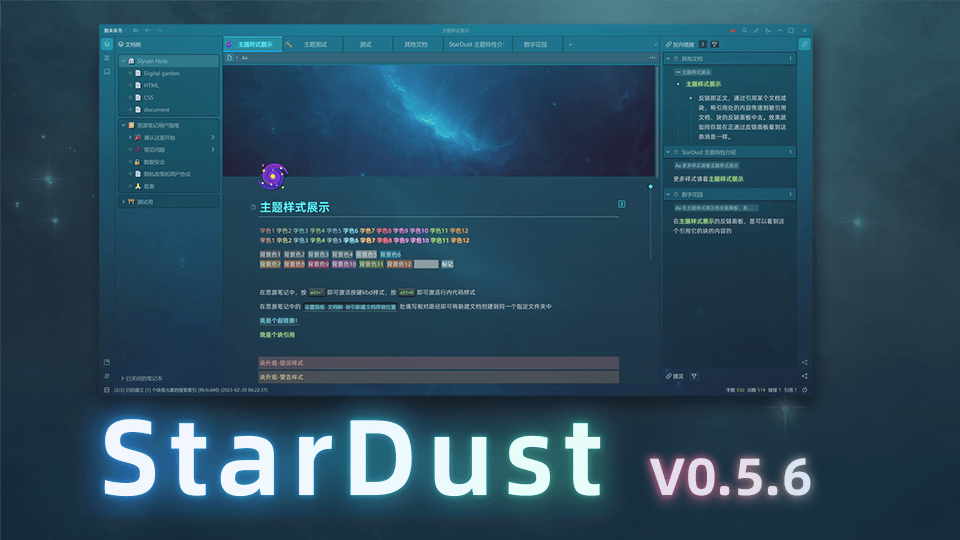
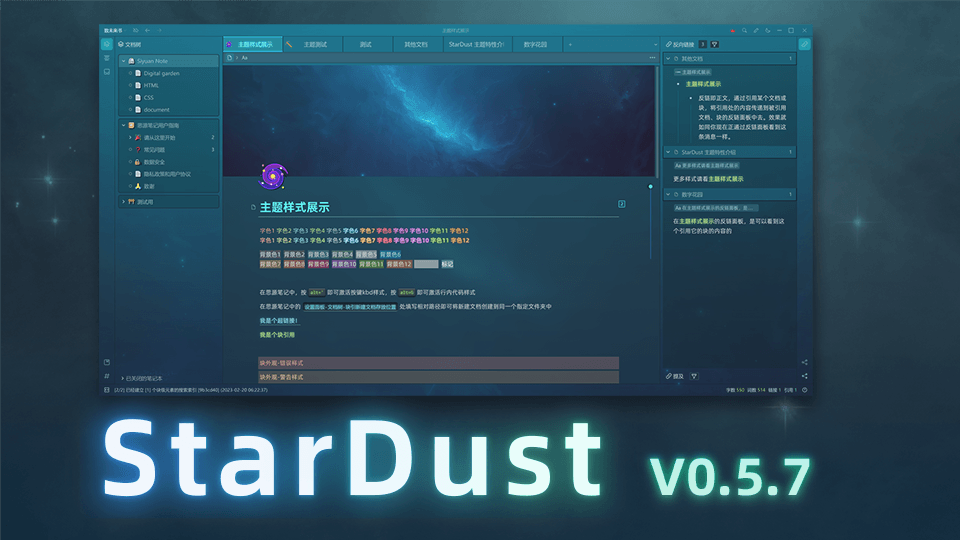
0.5.7更新

Changed region(s): [[0.6562, 0.8296, 0.875, 0.9481]]

diff --git a/样式修改/行内样式/12种荧光字.css b/样式修改/行内样式/12种荧光字.css
@@ -103,40 +103,40 @@
 
 
 /* 工具栏面板 */
-.b3-color__square[data-type="color"]{
+.color__square[data-type="color"]{
     box-shadow: none;
 }
 
 
 
-.b3-color__square[style*="color:var(--b3-font-color1)"]{
+.color__square[style*="color:var(--b3-font-color1)"]{
     background-color: #d49c9c;
 }
 
-.b3-color__square[style*="color:var(--b3-font-color2)"]{
+.color__square[style*="color:var(--b3-font-color2)"]{
     color: transparent !important;
     background-color:#f8d3d5 !important;
     box-shadow:    0px 0px 2px hsl(345, 88%, 46%, 0.8),
                     0px 0px 3px hsla(342, 88%, 53%, 0.8);
 }
-.b3-color__square[style*="color:var(--b3-font-color3)"]{
+.color__square[style*="color:var(--b3-font-color3)"]{
     color: transparent !important;
     background-color:#f8d3d5 !important;
     box-shadow:    0px 0px 2px hsl(345, 88%, 46%),
                     0px 0px 3px hsl(342, 88%, 53%),
                     1px 1px 4px hsla(0, 100%, 73%, 0.829);
 }
-.b3-color__square[style*="color:var(--b3-font-color4)"]{
+.color__square[style*="color:var(--b3-font-color4)"]{
     background-color: var(--b3-font-color4);
 }
 
-.b3-color__square[style*="color:var(--b3-font-color5)"]{
+.color__square[style*="color:var(--b3-font-color5)"]{
     color: transparent !important;
     background-color:hsl(107, 74%, 90%) !important;
     box-shadow:    0px 0px 2px hsla(85, 90%, 34%, 0.8),
                     0px 0px 3px hsla(90, 88%, 53%, 0.3);
 }
-.b3-color__square[style*="color:var(--b3-font-color6)"]{
+.color__square[style*="color:var(--b3-font-color6)"]{
     color: transparent !important;
     background-color:hsl(89, 100%, 93%) !important;
     box-shadow:    0px 0px 0.1em hsl(91, 100%, 33%),
@@ -145,21 +145,21 @@
 }
 
 
-.b3-color__square[style*="color:var(--b3-font-color7)"]{
+.color__square[style*="color:var(--b3-font-color7)"]{
     color: transparent !important;
     background-color:hsl(197, 38%, 72%) !important;
     box-shadow:none !important;
 }
 
 
-.b3-color__square[style*="color:var(--b3-font-color8)"]{
+.color__square[style*="color:var(--b3-font-color8)"]{
     color: transparent !important;
     background-color:hsl(197, 100%, 94%) !important;
     box-shadow:    0px 0px 2px hsla(200, 90%, 34%, 1),
                     0px 0px 3px hsla(206, 88%, 53%, 1);
 }
 
-.b3-color__square[style*="color:var(--b3-font-color9)"]{
+.color__square[style*="color:var(--b3-font-color9)"]{
     color: transparent !important;
     background-color:hsl(197, 100%, 94%) !important;
     box-shadow:    0px 0px 1px hsl(206, 100%, 38%),
@@ -168,13 +168,13 @@
                     0px 0px 6px hsla(206, 100%, 65%, 0.85);
 }
 
-.b3-color__square[style*="color:var(--b3-font-color10)"]{
+.color__square[style*="color:var(--b3-font-color10)"]{
     color: transparent !important;
     background-color:hsl(265, 38%, 80%) !important;
     box-shadow:none !important;
 }
 
-.b3-color__square[style*="color:var(--b3-font-color11)"]{
+.color__square[style*="color:var(--b3-font-color11)"]{
     color: transparent !important;
     background-color:hsl(265, 74%, 90%) !important;
     box-shadow:    0px 0px 2px rgb(86, 0, 208),
@@ -182,7 +182,7 @@
 
 }
 
-.b3-color__square[style*="color:var(--b3-font-color12)"]{
+.color__square[style*="color:var(--b3-font-color12)"]{
     color: transparent !important;
     background-color:hsl(270, 100%, 97%) !important;
     box-shadow:    0px 0px 0.1em hsl(260, 100%, 39%),
@@ -190,13 +190,13 @@
                     0px 0px 0.3em hsla(265, 100%, 79%, 0.7);
 }
 
-.b3-color__square[style*="color:var(--b3-font-color13)"]{
+.color__square[style*="color:var(--b3-font-color13)"]{
     color: transparent !important;
     background-color:  transparent !important;
     box-shadow: inset 0 0 1px white;
 }
 
 
-.b3-color__square[data-type="color"]:hover {
+.color__square[data-type="color"]:hover {
     scale: 120%;
 }

diff --git a/样式修改/行内样式/12种背景色.css b/样式修改/行内样式/12种背景色.css
@@ -72,7 +72,7 @@
     color: transparent !important;
     background-color: transparent !important;
     border-bottom: 2px solid gray !important;
-    border-radius: var(--b3-border-radius-none) !important;
+    border-radius: var(--border-radius-none) !important;
     font-weight: 400 !important;
     transition: color 0.1s ease-in-out;
 } */
@@ -85,51 +85,51 @@
 
 
 
-.b3-color__square[data-type="backgroundColor"]:hover{
+.color__square[data-type="backgroundColor"]:hover{
     scale: 120%;
     border: none;
 }
 
 
-.b3-color__square[style*="background-color:var(--b3-font-background1)"]{
+.color__square[style*="background-color:var(--b3-font-background1)"]{
     background-color: hsl(358deg 51% 72%) !important;
 }
-.b3-color__square[style*="background-color:var(--b3-font-background2)"]{
+.color__square[style*="background-color:var(--b3-font-background2)"]{
     background-color: #ff8d8d !important;
 }
-.b3-color__square[style*="background-color:var(--b3-font-background3)"]{
+.color__square[style*="background-color:var(--b3-font-background3)"]{
     background-color: hsl(0deg 97% 69%) !important;
 }
-.b3-color__square[style*="background-color:var(--b3-font-background4)"]{
+.color__square[style*="background-color:var(--b3-font-background4)"]{
     background-color: #b5cf94 !important;
 }
-.b3-color__square[style*="background-color:var(--b3-font-background5)"]{
+.color__square[style*="background-color:var(--b3-font-background5)"]{
     background-color: hsl(86deg 64% 70%) !important;
 }
-.b3-color__square[style*="background-color:var(--b3-font-background6)"]{
+.color__square[style*="background-color:var(--b3-font-background6)"]{
     background-color: hsl(86deg 64% 70%) !important;
 }
-.b3-color__square[style*="background-color:var(--b3-font-background7)"]{
+.color__square[style*="background-color:var(--b3-font-background7)"]{
     background-color: rgb(139 194 215) !important;
 }
-.b3-color__square[style*="background-color:var(--b3-font-background8)"]{
+.color__square[style*="background-color:var(--b3-font-background8)"]{
     background-color: rgb(123, 201, 217) !important;
 }
-.b3-color__square[style*="background-color:var(--b3-font-background9)"]{
+.color__square[style*="background-color:var(--b3-font-background9)"]{
     background-color: rgb(98 206 255) !important;
 }
-.b3-color__square[style*="background-color:var(--b3-font-background10)"]{
+.color__square[style*="background-color:var(--b3-font-background10)"]{
     background-color: hsl(264deg 68% 73%) !important;
 }
-.b3-color__square[style*="background-color:var(--b3-font-background11)"]{
+.color__square[style*="background-color:var(--b3-font-background11)"]{
     background-color: hsl(274deg 57% 69%) !important;
 }
-.b3-color__square[style*="background-color:var(--b3-font-background12)"]{
+.color__square[style*="background-color:var(--b3-font-background12)"]{
     background-color: hsl(358deg 51% 72%) !important;
 }
-.b3-color__square[style*="background-color:var(--b3-font-background12)"]{
+.color__square[style*="background-color:var(--b3-font-background12)"]{
     background-color: rgb(190, 106, 255) !important;
 }
-/* .b3-color__square[background-color="var(--b3-font-background13)"]{
+/* .color__square[background-color="var(--b3-font-background13)"]{
     background-color: hsl(358deg 51% 72%);
 } */

diff --git a/样式修改/行内样式/块引用.css b/样式修改/行内样式/块引用.css
@@ -1,13 +1,32 @@
 /* 此处选择器来源于思源默认 */
-.protyle-wysiwyg [data-node-id] span[data-type~=block-ref], .protyle-wysiwyg [data-node-id] span[data-type~=file-annotation-ref]{
+.protyle-wysiwyg [data-node-id] span[data-type~=block-ref]{
     color: #bae392;
-    opacity: 0.90;
-    transition: var(--b3-transition);
-    text-shadow: 0 0 1px #d0ec51, 0 0 10px #75ffc291;
-    border-bottom: 0px solid #bae392;
+    opacity: 0.95;
+    transition: all 0.1s linear 0s;
+    text-shadow: 0 0 0.5px #d0ec51, 0 0 7px #75ffc2c2;
+    border-bottom: 1px solid transparent;
 }
 
 /* 悬浮状态下显示底部高亮线 */
-.protyle-wysiwyg [data-node-id] span[data-type~=block-ref]:hover, .protyle-wysiwyg [data-node-id] span[data-type~=file-annotation-ref]:hover{
+.protyle-wysiwyg [data-node-id] span[data-type~=block-ref]:hover{
+    opacity: 1;
     border-bottom: 1px solid #bae392;
+    text-shadow: 0 0 3px #748b0a, 0 0 8px #c5d86c, 0 0 10px #75ffc25c;
+}
+
+
+/* 文件引用 */
+.protyle-wysiwyg [data-node-id] span[data-type~=file-annotation-ref]{
+    color: #8fdbb2;
+    opacity: 0.95;
+    text-shadow: 0 0 0.5px #41ffc8, 0 0 8px #aeffdcc2;
+    border-bottom: 1px solid #aaf2d6;
+}
+
+
+.protyle-wysiwyg [data-node-id] span[data-type~=file-annotation-ref]:hover{
+    opacity: 1;
+    border-bottom: 1px solid #aaf2d6;
+    color: #aef4ce;
+    text-shadow: 0 0 3px #0ab583, 0 0 8px #88dfb969, 0 0 10px #aeffdcc2;
 }

diff --git a/theme.css b/theme.css
@@ -2,6 +2,7 @@
 
 /* 主题修改部分root属性 */
 @import url("config/root_StarDust.css");
+@import url("config/root/PDF.css");
 
 @import url("部件修改/页签栏.css");
 @import url("部件修改/设置面板.css");
@@ -51,9 +52,11 @@
 @import url("样式修改/引用统计.css");
 @import url("样式修改/虚拟引用.css");
 @import url("样式修改/表格.css");
+@import url("样式修改/PDF.css");
 
 @import url("状态/拖拽块.css");
 @import url("状态/聚焦状态.css");
+
 
 
 /* 作者自用特色功能 */

diff --git a/config/root/PDF.css b/config/root/PDF.css
@@ -1,0 +1,11 @@
+/* 修改PDF标记颜色，在其色相不变化多少的前提下，降低其明度，以和暗色界面搭配 */
+:root {
+    --b3-pdf-background1: hsl(6deg 23% 46%);
+    --b3-pdf-background2: hsl(25deg 34% 46%);
+    --b3-pdf-background3: hsl(45deg 30% 47%);
+    --b3-pdf-background4: hsl(107deg 19% 47%);
+    --b3-pdf-background5: hsl(166deg 18% 47%);
+    --b3-pdf-background6: hsl(208deg 21% 47%);
+    --b3-pdf-background7: hsl(0deg 0% 100% / 3%);
+    --b3-pdf-dark: #111d23;
+}

diff --git a/config/root_StarDust.css b/config/root_StarDust.css
@@ -46,7 +46,6 @@
     --b3-toolbar-hover:#2dafc5;
     /* 行级内标记背景色 */
     --b3-protyle-inline-mark-background: rgb(116 164 152);
-
     /* 字体 */
     /* --b3-font-family:思源黑体; */
     --b3-font-family-button:"Consolas",微软雅黑,"三极柴园简体";    /*给按键kbd用的字体  */

diff --git a/样式修改/PDF.css b/样式修改/PDF.css
@@ -1,0 +1,3 @@
+[style*="border: 2px solid var(--b3-pdf-background7)"]{
+    border: 1px solid white !important;
+}
